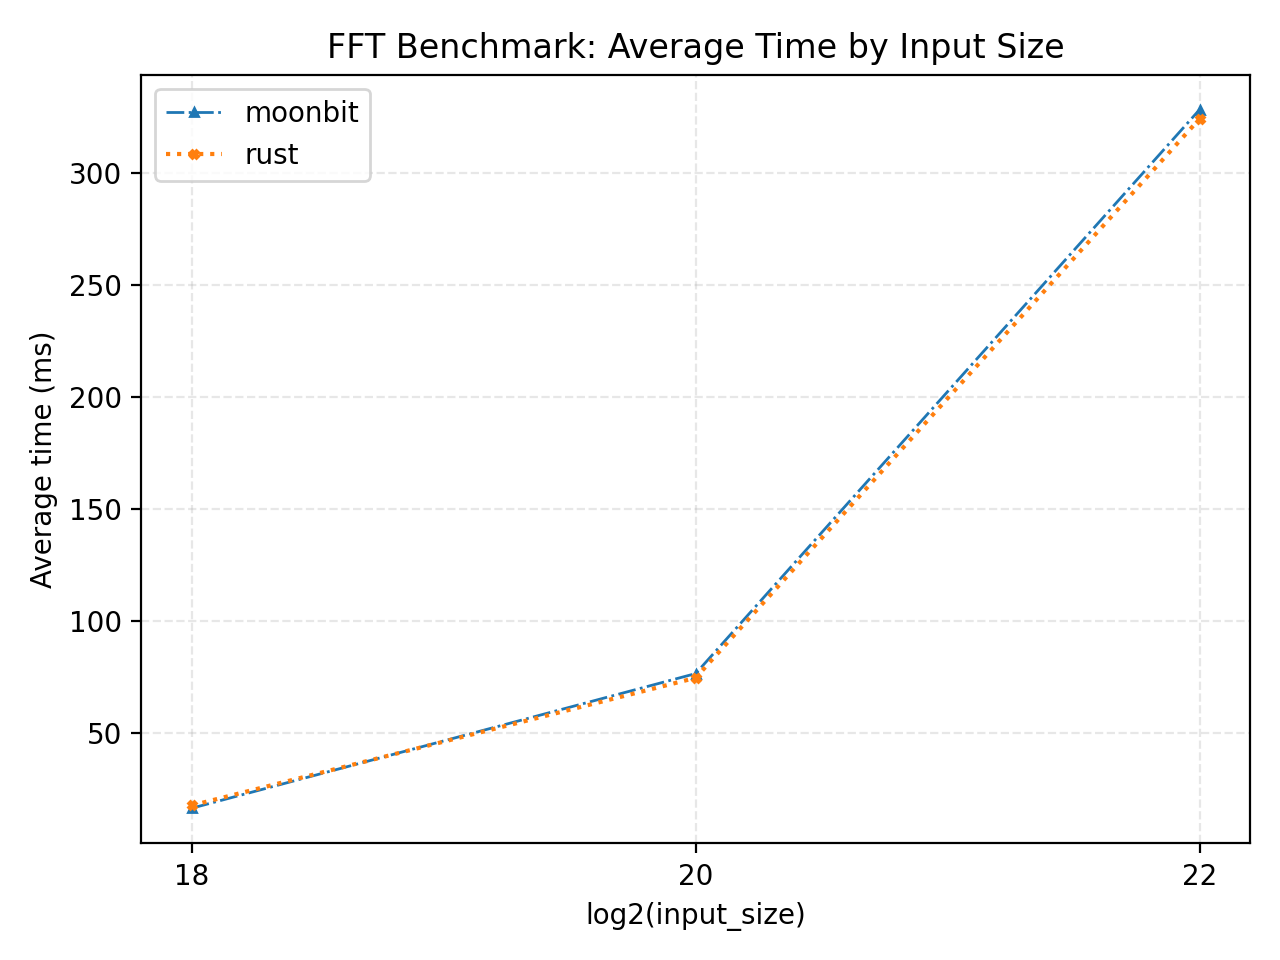
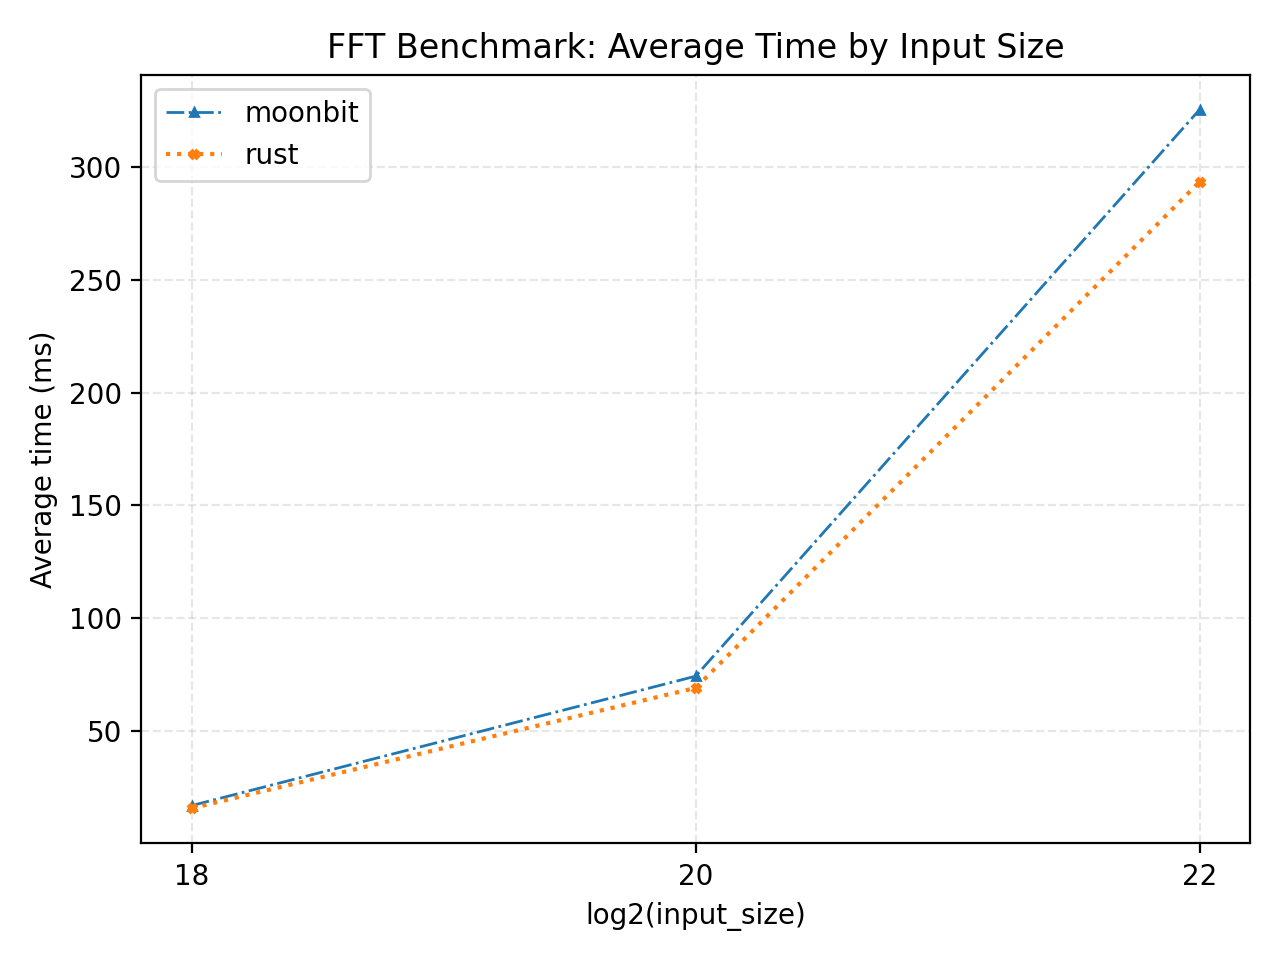
rust: mimalloc

diff --git a/fft/rs/src/main.rs b/fft/rs/src/main.rs
@@ -1,6 +1,11 @@
 use fft::{fft, Complex};
 use std::f64::consts::PI;
 
+use mimalloc::MiMalloc;
+
+#[global_allocator]
+static GLOBAL: MiMalloc = MiMalloc;
+
 fn round(n: f64) -> f64 {
     // precision = 2
     (n * 100.0).round() / 100.0
